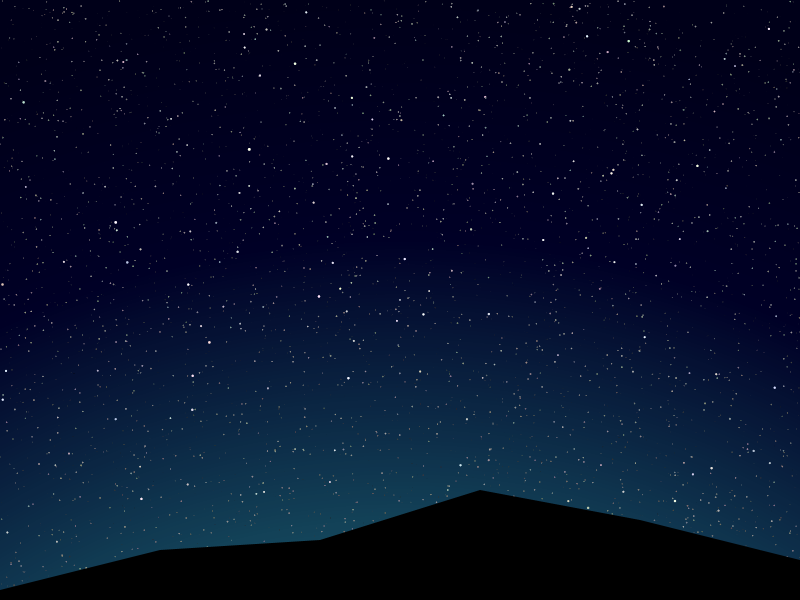
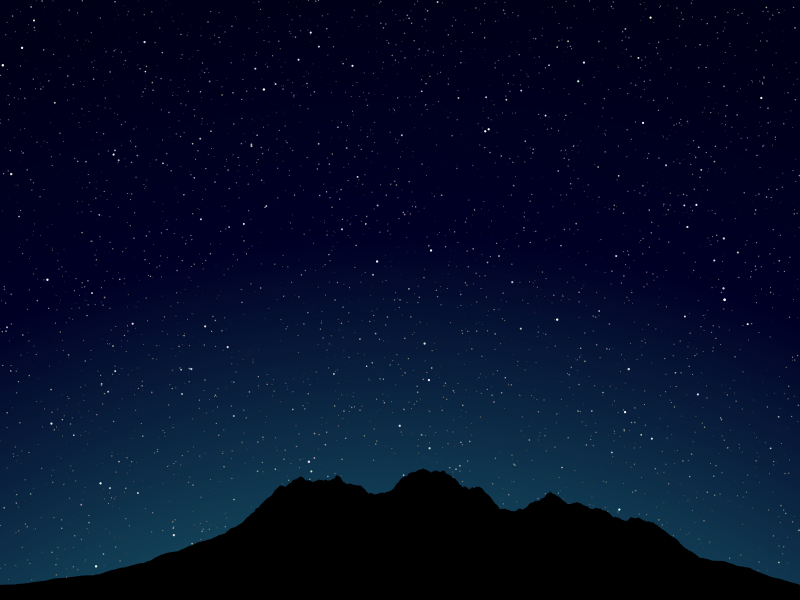
add generated mountain horizon

diff --git a/src/main/java/ch/obermuhlner/timelapse/GalaxyCollision.java b/src/main/java/ch/obermuhlner/timelapse/GalaxyCollision.java
@@ -53,7 +53,7 @@ public class GalaxyCollision extends Application {
 
         int nStars1 = 5000;
         int nStars2 = 5000;
-        int nFrames = 2;
+        int nFrames = 1500;
         int startCollisionFrame = 1000;
 
         Polygon mountain = createMountain(width, height, height / 40, height / 5);

diff --git a/README.md b/README.md
@@ -1,2 +1,4 @@
 # timelapse-galaxy-collision
 Program to generate a video with a simulated galaxy collision
+
+![Night sky image](docs/images/image000000.png)
